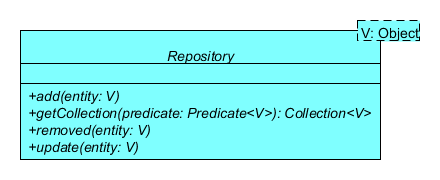
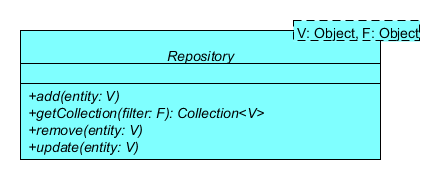
The class used by the Repository to filtering the entities can now be configured.

Changed region(s): [[0.2659, 0.5833, 0.8568, 0.6667], [0.65, 0.1111, 0.9159, 0.25], [0.1773, 0.6944, 0.3545, 0.7778]]

diff --git a/src/main/java/com/wandrell/pattern/repository/Repository.java b/src/main/java/com/wandrell/pattern/repository/Repository.java
@@ -35,18 +35,21 @@ import com.google.common.base.Predicate;
  * that data persists.
  * <p>
  * Most of the methods on this interface are very simple, but the one used for
- * reading, the {@link #getCollection getCollection} method, has a bit of
- * additional complexity due it's use of {@code Predicate}.
+ * reading, the {@link #getCollection(Object) getCollection} method, has a bit
+ * of additional complexity due it's requirement of a filter.
  * <p>
- * And still that one is too very straightforward, as that method will just
- * return all the entities which validate the received {@code Filter}.
+ * This method receives a class containing the required information to build a
+ * subset of entities, created from those in the repository. How this works, and
+ * which structure will be used as a filter, will depend on the implementation.
  * 
  * @author Bernardo Martínez Garrido
  * @param <V>
  *            the type stored on the repository
+ * @param <V>
+ *            the type being used to filter the entities
  * @see Predicate
  */
-public interface Repository<V> {
+public interface Repository<V, F> {
 
     /**
      * Adds an entity to the repository.
@@ -57,18 +60,20 @@ public interface Repository<V> {
     public void add(final V entity);
 
     /**
-     * Queries the entities in the repository and returns a collection of them.
+     * Queries the entities in the repository and returns a subset of them.
      * <p>
      * The collection is created filtering the stored data with the specified
-     * {@code Predicate}. All the entities validating this predicate will be
-     * returned.
+     * filter.
+     * <p>
+     * How this filter exactly work will depend on the implementation, it may be
+     * an structure containing information to build an SQL query, or may just be
+     * a predicate which the entities should validate.
      * 
-     * @param predicate
-     *            the {@code Predicate} which the returned entities should
-     *            validate
+     * @param filter
+     *            the filter which discriminates the entities to be returned
      * @return the filtered subset of entities
      */
-    public Collection<V> getCollection(final Predicate<V> predicate);
+    public Collection<V> getCollection(final F filter);
 
     /**
      * Removes an entity from the repository.

diff --git a/src/main/java/com/wandrell/pattern/repository/package-info.java b/src/main/java/com/wandrell/pattern/repository/package-info.java
@@ -27,21 +27,29 @@
  * This pattern is similar to a DAO, as it allows accessing data through CRUD
  * operations, hiding the source of this data.
  * <p>
- * The main difference is the logic behind the data access. While the DAO
- * operates in a case by case way, returning a concrete object, the repository
- * works like a collection where queries can be made.
+ * It can be hard to find differences between a DAO and a repository, but the
+ * first is used as an interface between the application and a table on a
+ * database, while the second is a domain driven pattern, which may or not be
+ * linked to a database.
+ * <h2>Interfaces</h2>
  * <p>
  * The {@link com.wandrell.pattern.repository.Repository Repository} interface
  * achieves this through the
- * {@link com.wandrell.pattern.repository.Repository#getCollection
- * getCollection} method, which makes use of Guava's
- * {@link com.google.common.base.Predicate Predicate} interface to return a
- * specific subset of the repository's data.
+ * {@link com.wandrell.pattern.repository.Repository#getCollection(Object)
+ * getCollection} method, which through the use of a filter class will return a
+ * specific subset of the repository's entities.
+ * <p>
+ * How this works, and which class will be used depends on each implementation.
+ * <h2>Implementations</h2>
  * <p>
  * A basic implementation,
  * {@link com.wandrell.pattern.repository.CollectionRepository
  * CollectionRepository}, offers a simple and fast way of creating the simplest
  * possible repository.
+ * <p>
+ * It stores entities inside a {@code Collection}, and filters them through
+ * Guava classes, specifically it requires a {@code Predicate} which the
+ * entities to be returned should validate.
  */
 package com.wandrell.pattern.repository;
 

diff --git a/src/main/java/com/wandrell/pattern/repository/CollectionRepository.java b/src/main/java/com/wandrell/pattern/repository/CollectionRepository.java
@@ -35,12 +35,17 @@ import com.google.common.base.Predicate;
  * <p>
  * This is meant to be the most basic form of {@code Repository}, used when
  * there is no need of anything fancy such as persistence.
+ * <p>
+ * The {@link #getCollection(Predicate) getCollection} method works through the
+ * use of a Guava {@code Predicate}. All the entities validating this predicate
+ * will be returned.
  * 
  * @author Bernardo Martínez Garrido
  * @param <V>
  *            the type stored on the repository
  */
-public final class CollectionRepository<V> implements Repository<V> {
+public final class CollectionRepository<V> implements
+        Repository<V, Predicate<V>> {
 
     /**
      * The entities stored in the repository.

diff --git a/src/test/java/com/wandrell/testing/pattern/test/unit/repository/TestUpdateCollectionRepository.java b/src/test/java/com/wandrell/testing/pattern/test/unit/repository/TestUpdateCollectionRepository.java
@@ -54,7 +54,7 @@ public final class TestUpdateCollectionRepository {
     /**
      * The repository being tested.
      */
-    private Repository<TestClass> repository;
+    private Repository<TestClass, Predicate<TestClass>> repository;
 
     /**
      * This is a test class for testing the {@code Repository} using a class

diff --git a/src/test/java/com/wandrell/testing/pattern/test/unit/repository/TestCollectionRepository.java b/src/test/java/com/wandrell/testing/pattern/test/unit/repository/TestCollectionRepository.java
@@ -60,7 +60,7 @@ public final class TestCollectionRepository {
     /**
      * The repository being tested.
      */
-    private Repository<String> repository;
+    private Repository<String, Predicate<String>> repository;
 
     /**
      * Default constructor.

diff --git a/readme.md b/readme.md
@@ -26,7 +26,7 @@ Documentation is also generated from the latest snapshot, taken from the 'develo
 The site sources come along the source code, so it is always possible to generate them using the Maven site command.
 
 ## Status
-The current version is 0.1.0
+The current version is 0.2.0
 
 ### Issues management
 Issues are managed at the GitHub [project issues page][issues].
